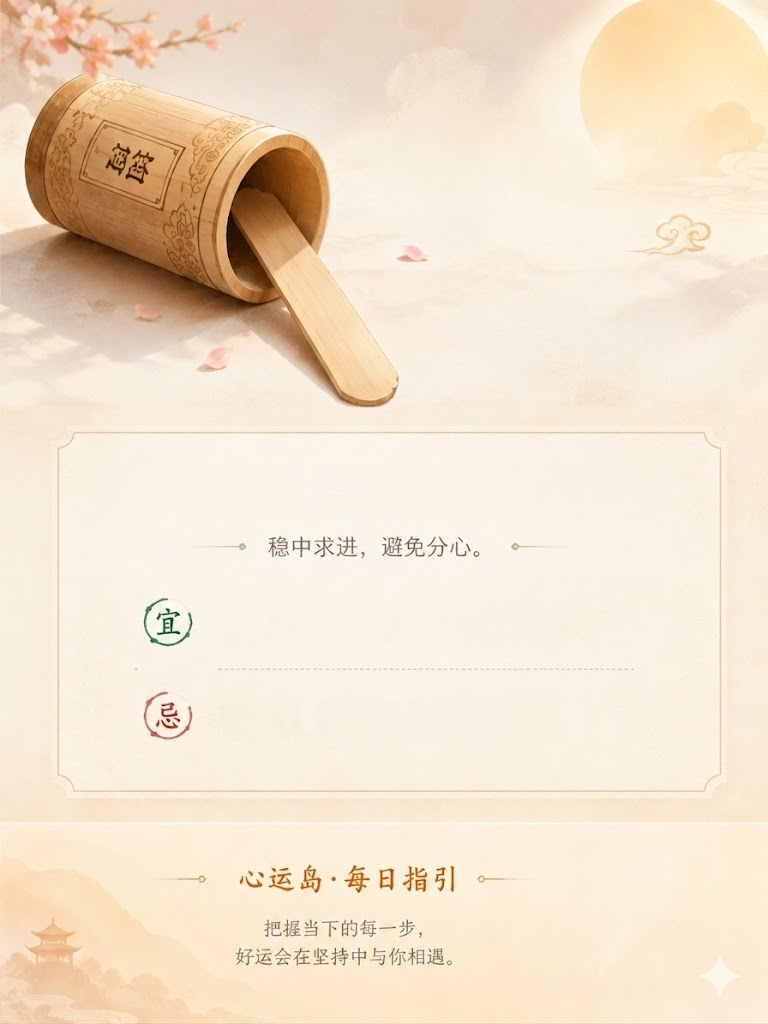
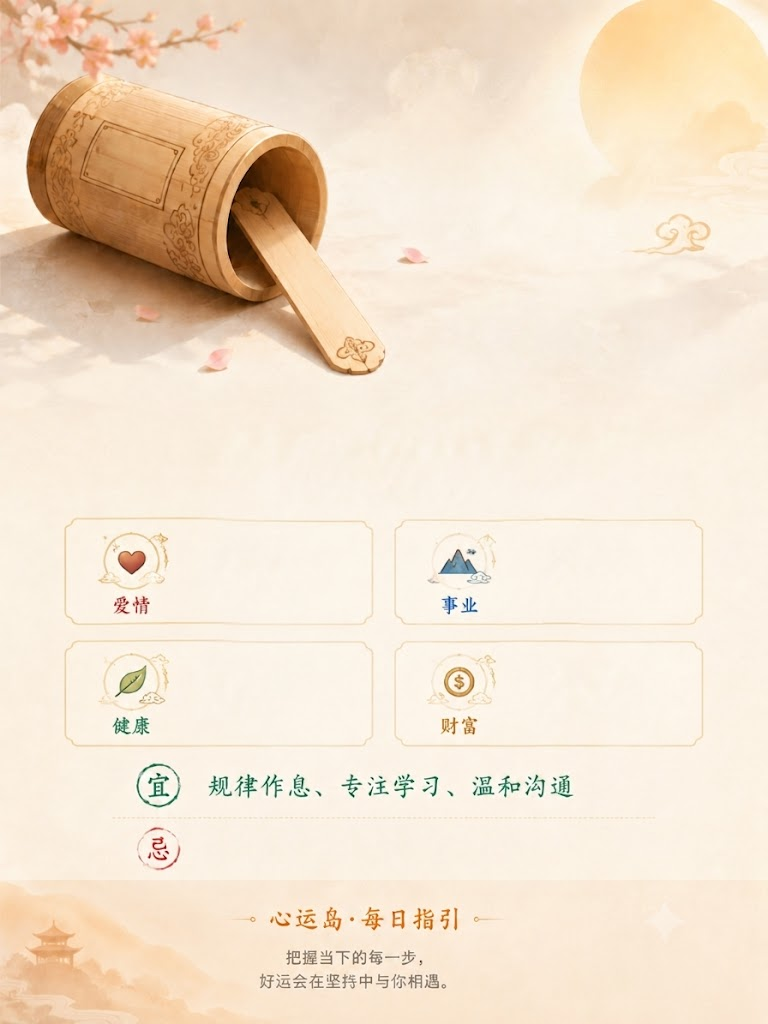
fix: 补充历史运势详细四项信息，修改按钮样式

diff --git a/frontend/src/views/fortune/FortuneView.vue b/frontend/src/views/fortune/FortuneView.vue
@@ -290,24 +290,40 @@
 
           <div v-if="isBoardUnlocked" class="space-y-2">
             <h2 class="text-sm font-semibold text-slate-700">今日概览</h2>
-            <ul class="grid grid-cols-2 gap-3 text-sm">
-              <li class="rounded-xl border border-slate-200 bg-white px-3 py-2">
-                <span class="text-slate-500">爱情</span>
-                <span class="ml-2 font-semibold text-pink-500">{{ fortuneData.love }}</span>
-              </li>
-              <li class="rounded-xl border border-slate-200 bg-white px-3 py-2">
-                <span class="text-slate-500">事业</span>
-                <span class="ml-2 font-semibold text-blue-500">{{ fortuneData.career }}</span>
-              </li>
-              <li class="rounded-xl border border-slate-200 bg-white px-3 py-2">
-                <span class="text-slate-500">健康</span>
-                <span class="ml-2 font-semibold text-green-600">{{ fortuneData.health }}</span>
-              </li>
-              <li class="rounded-xl border border-slate-200 bg-white px-3 py-2">
-                <span class="text-slate-500">财富</span>
-                <span class="ml-2 font-semibold text-yellow-600">{{ fortuneData.wealth }}</span>
-              </li>
-            </ul>
+            <div class="grid grid-cols-2 gap-3 text-sm">
+              <div
+                class="rounded-xl border border-slate-200 bg-white px-3 py-2 flex justify-between items-start gap-2"
+              >
+                <span class="text-slate-500 w-7 flex-shrink-0">爱情</span>
+                <span class="font-semibold text-pink-500 flex-1 break-words">{{
+                  fortuneData.love
+                }}</span>
+              </div>
+              <div
+                class="rounded-xl border border-slate-200 bg-white px-3 py-2 flex justify-between items-start gap-2"
+              >
+                <span class="text-slate-500 w-7 flex-shrink-0">事业</span>
+                <span class="font-semibold text-blue-500 flex-1 break-words">{{
+                  fortuneData.career
+                }}</span>
+              </div>
+              <div
+                class="rounded-xl border border-slate-200 bg-white px-3 py-2 flex justify-between items-start gap-2"
+              >
+                <span class="text-slate-500 w-7 flex-shrink-0">健康</span>
+                <span class="font-semibold text-green-600 flex-1 break-words">{{
+                  fortuneData.health
+                }}</span>
+              </div>
+              <div
+                class="rounded-xl border border-slate-200 bg-white px-3 py-2 flex justify-between items-start gap-2"
+              >
+                <span class="text-slate-500 w-7 flex-shrink-0">财富</span>
+                <span class="font-semibold text-yellow-600 flex-1 break-words">{{
+                  fortuneData.wealth
+                }}</span>
+              </div>
+            </div>
           </div>
 
           <div v-if="isBoardUnlocked" class="grid grid-cols-2 gap-3" style="margin-top: 1rem">
@@ -343,36 +359,93 @@
         </div>
 
         <div v-if="isBoardUnlocked" class="flex gap-3 mt-4">
+          <!-- 下载运势按钮 -->
           <button
             type="button"
-            class="flex-1 bg-[#dce5b8a2] border-2 border-[#dce5b8] hover:bg-[#dce5b8] text-slate-700 rounded-xl py-2 text-sm font-medium disabled:opacity-50"
+            class="flex-1 flex flex-col items-center gap-1 py-2 rounded-xl text-sm font-medium text-slate-700 hover:bg-slate-100 transition disabled:opacity-50"
             :disabled="shareCardGenerating"
             @click="handleDownloadFortuneCard"
           >
-            {{ shareCardGenerating ? '生成运势中...' : '下载运势' }}
+            <svg
+              xmlns="http://www.w3.org/2000/svg"
+              width="20"
+              height="20"
+              viewBox="0 0 24 24"
+              fill="none"
+              stroke="currentColor"
+              stroke-width="2"
+              stroke-linecap="round"
+              stroke-linejoin="round"
+            >
+              <rect x="3" y="3" width="18" height="18" rx="4" ry="4" />
+              <polyline points="8 12 12 16 16 12" />
+              <line x1="12" y1="16" x2="12" y2="6" />
+            </svg>
+            <span>{{ shareCardGenerating ? '生成运势中...' : '下载运势' }}</span>
           </button>
+
+          <!-- 分享按钮 -->
           <button
             type="button"
-            class="flex-1 bg-white border-2 border-slate-200 hover:bg-gray-200 text-slate-700 rounded-xl py-2 text-sm font-medium"
+            class="flex-1 flex flex-col items-center gap-1 py-2 rounded-xl text-sm font-medium text-slate-700 hover:bg-slate-100 transition"
             @click="openShareFortuneModal"
           >
-            分享
+            <svg
+              xmlns="http://www.w3.org/2000/svg"
+              width="20"
+              height="20"
+              viewBox="0 0 24 24"
+              fill="none"
+              stroke="currentColor"
+              stroke-width="2"
+              stroke-linecap="round"
+              stroke-linejoin="round"
+            >
+              <path d="M4 12v8a2 2 0 0 0 2 2h12a2 2 0 0 0 2-2v-8" />
+              <polyline points="16 6 12 2 8 6" />
+              <line x1="12" y1="2" x2="12" y2="15" />
+            </svg>
+            <span>分享到广场</span>
           </button>
+
+          <!-- 发起运势挑战按钮 -->
           <button
             type="button"
-            class="flex-1 bg-[#d9f3f090] border-2 border-[#d0e6ee] hover:bg-[#d0e6ee] text-slate-700 rounded-xl py-2 text-sm font-medium"
+            class="flex-1 flex flex-col items-center gap-1 py-2 rounded-xl text-sm font-medium text-slate-700 hover:bg-slate-100 transition disabled:opacity-50"
             :disabled="pkCreating"
             @click="handleCreatePKChallenge"
           >
-            {{ pkCreating ? '创建中...' : '发起运势挑战' }}
+            <svg
+              xmlns="http://www.w3.org/2000/svg"
+              width="20"
+              height="20"
+              viewBox="0 0 24 24"
+              fill="none"
+              stroke="currentColor"
+              stroke-width="2"
+              stroke-linecap="round"
+              stroke-linejoin="round"
+            >
+              <path
+                d="M12 2v4M12 22v-4M4 12H2M22 12h-2M5.6 5.6l2.8 2.8M18.4 18.4l-2.8-2.8M5.6 18.4l2.8-2.8M18.4 5.6l-2.8 2.8"
+              />
+              <circle cx="12" cy="12" r="3" />
+            </svg>
+            <span>{{ pkCreating ? '创建中...' : '发起运势挑战' }}</span>
           </button>
+
+          <!-- 调试按钮（仅开发环境） -->
           <!-- <button
             v-if="isDev"
             type="button"
-            class="flex-1 bg-gray-200 text-gray-700 rounded-xl py-2 text-sm font-medium"
+            class="flex-1 flex flex-col items-center gap-1 py-2 rounded-xl text-sm font-medium text-slate-700 hover:bg-slate-100 transition"
             @click="debugPreviewCard"
           >
-            调试预览
+            <svg xmlns="http://www.w3.org/2000/svg" width="20" height="20" viewBox="0 0 24 24" fill="none" stroke="currentColor" stroke-width="2" stroke-linecap="round" stroke-linejoin="round">
+              <circle cx="12" cy="12" r="10" />
+              <path d="M12 8v4M12 16h.01" />
+            </svg>
+            <span>调试预览</span>
           </button> -->
         </div>
       </section>
@@ -534,6 +607,42 @@
               <p class="mt-2 text-xs text-amber-700">{{ selectedHistory.content_sub || '' }}</p>
             </div>
 
+            <!-- 爱情、事业、健康、财富四项 -->
+            <div class="mt-4 grid grid-cols-2 gap-3 text-sm">
+              <div
+                class="rounded-xl border border-slate-200 bg-white px-3 py-2 flex justify-between items-start gap-2"
+              >
+                <span class="text-slate-500 w-8 flex-shrink-0">爱情</span>
+                <span class="font-semibold text-pink-500 flex-1 break-words">{{
+                  selectedHistory.love
+                }}</span>
+              </div>
+              <div
+                class="rounded-xl border border-slate-200 bg-white px-3 py-2 flex justify-between items-start gap-2"
+              >
+                <span class="text-slate-500 w-8 flex-shrink-0">事业</span>
+                <span class="font-semibold text-blue-500 flex-1 break-words">{{
+                  selectedHistory.career
+                }}</span>
+              </div>
+              <div
+                class="rounded-xl border border-slate-200 bg-white px-3 py-2 flex justify-between items-start gap-2"
+              >
+                <span class="text-slate-500 w-8 flex-shrink-0">健康</span>
+                <span class="font-semibold text-green-600 flex-1 break-words">{{
+                  selectedHistory.health
+                }}</span>
+              </div>
+              <div
+                class="rounded-xl border border-slate-200 bg-white px-3 py-2 flex justify-between items-start gap-2"
+              >
+                <span class="text-slate-500 w-8 flex-shrink-0">财富</span>
+                <span class="font-semibold text-yellow-600 flex-1 break-words">{{
+                  selectedHistory.wealth
+                }}</span>
+              </div>
+            </div>
+
             <!-- 宜忌 -->
             <div class="mt-4 grid grid-cols-2 gap-3">
               <div class="rounded-xl bg-[#ecfdf55b] border border-emerald-400 p-3">
@@ -630,6 +739,10 @@ const historyFortunes = ref<
     yi: string[]
     ji: string[]
     // 以下用于卡片摘要（保持不变）
+    love: string
+    career: string
+    health: string
+    wealth: string
     summary: string
     story: string
     linkText: string
@@ -1019,6 +1132,11 @@ const loadFortuneBoardWithOptions = async (
     const today = await getFortuneToday()
     if (requestToken !== boardRequestToken) return
     fortuneData.value = normalizeFortuneToday(today)
+    // 调试：覆盖四项为测试数据
+    // fortuneData.value.love = '测试爱情运势：今日桃花运旺盛，适合主动表白。'
+    // fortuneData.value.career = '测试事业运势：工作顺利，有晋升机会。'
+    // fortuneData.value.health = '测试健康运势：状态良好，注意休息。'
+    // fortuneData.value.wealth = '测试财富运势：偏财运佳，可小额投资。'
     initBoardDrawState(fortuneData.value.date, fortuneData.value.record_existed)
 
     const [trendResult, historyResult] = await Promise.allSettled([
@@ -1066,6 +1184,10 @@ const loadFortuneBoardWithOptions = async (
           yi: item.yi || [],
           ji: item.ji || [],
           // 卡片摘要字段（保持原有风格）
+          love: item.love || '--',
+          career: item.career || '--',
+          health: item.health || '--',
+          wealth: item.wealth || '--',
           summary: scoreSummary(current),
           story: relation.story,
           linkText: relation.text,
